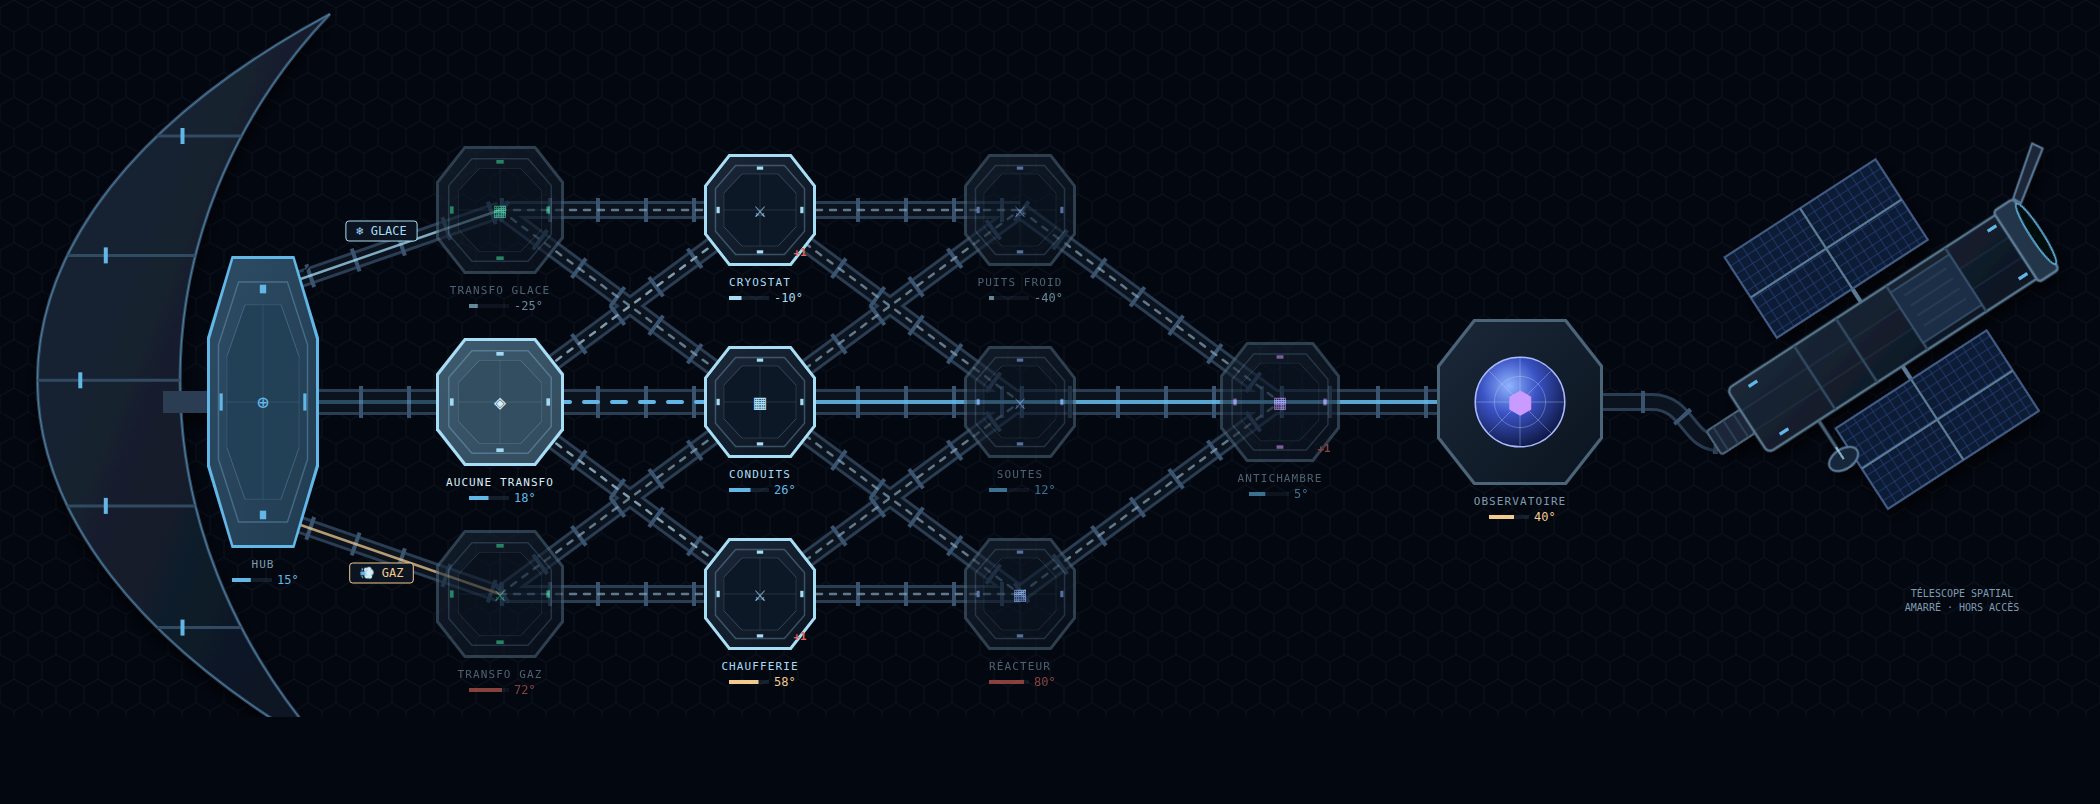
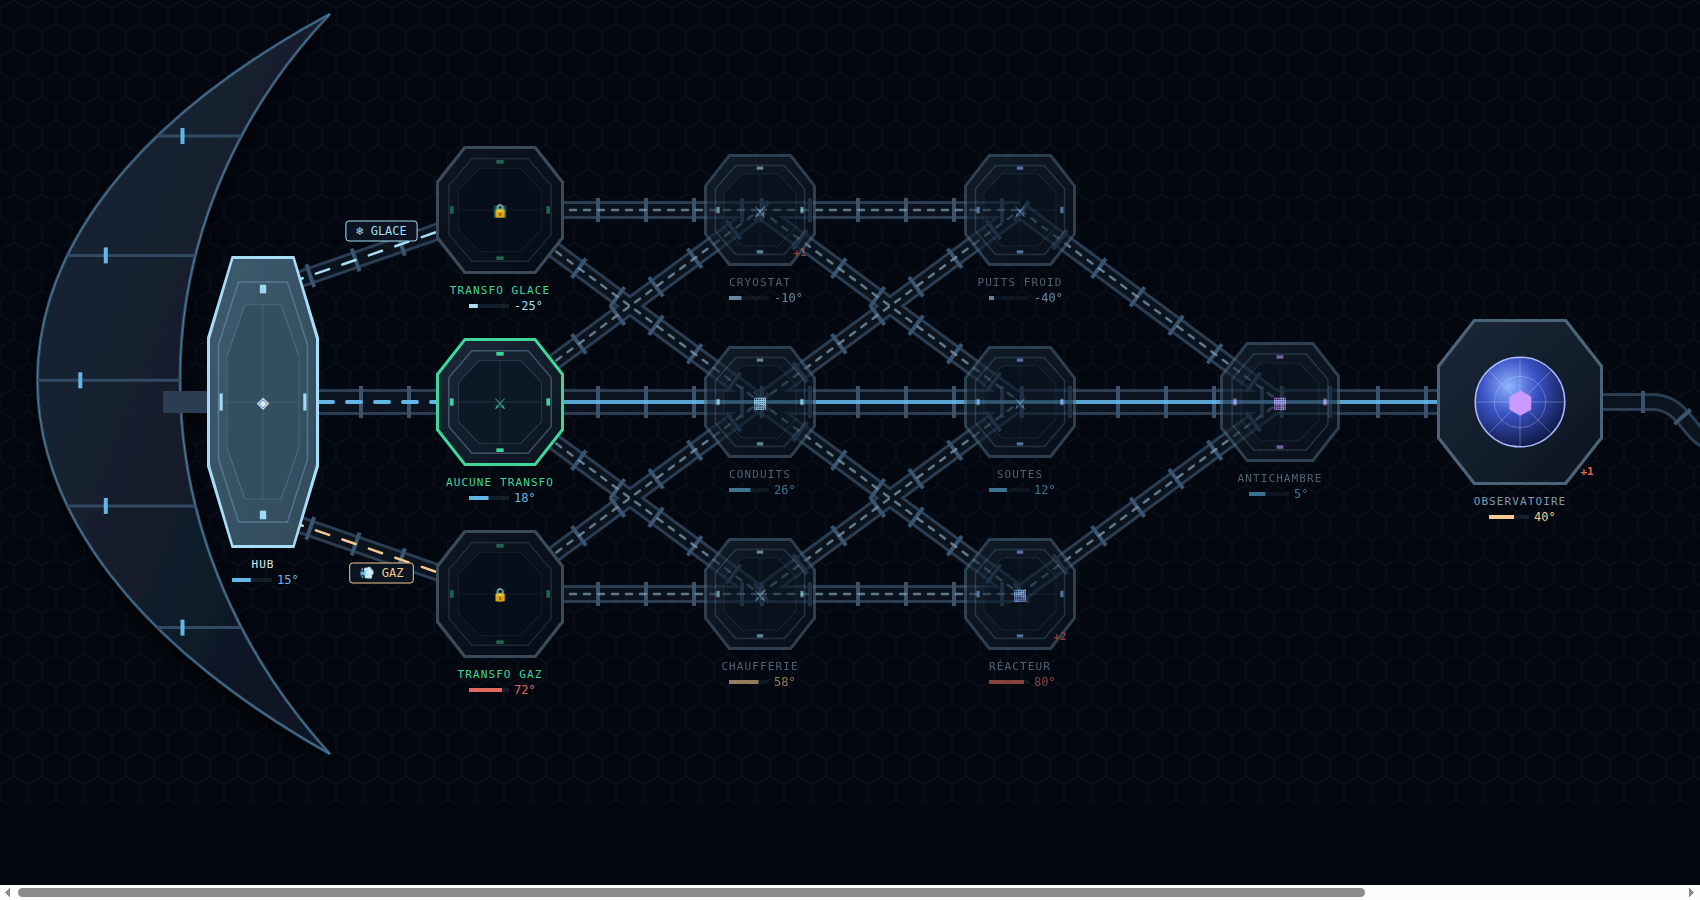
La symétrie de la carte est cassée : trois tempos, une voie courte, le terminal sous confinement
Le concepteur valide le point 2 du programme (16/09). La carte à cinq
biomes posait la même question à chaque acte — le bord sous cran avec sa
cache, ou le milieu sûr — et toutes les routes se rejoignaient sur une
antichambre sous cran : la carte avait la forme d'un choix, pas la
matière.

Chaque voie a désormais son tempo. La voie FROIDE paie tôt : le cryostat
garde cran 1 et sa cache (sublimation), le puits froid est calme. La voie
CHAUDE paie tard et gros : la chaufferie perd son cran et sa cache, le
réacteur prend cran 2 (mémoire triple, 80 °C) et la cache (condensation)
derrière. La voie du MILIEU paie en salles : les soutes passent à trois
salles — les routes qui y passent font 27 au lieu de 30, trois sas de
moins donc moins de récompenses, et une rampe plus raide (la longueur
suit le trajet). L'antichambre respire (aucun cran) et le terminal est
sous confinement pour tout le monde : la fin est un sommet, pas une voie.
Jamais deux crans d'affilée.

La règle de route « distance équivalente » tolère désormais trois salles
d'écart (ECART_ROUTES_MAX) : une voie courte qui se paie ailleurs est un
choix, pas un raccourci — au-delà, la vérification le dit toujours. Les
descriptions des modules disent chacune leur tempo.

Vérification : les tests de la carte et de la descente suivent le nouveau
plan (27 par les soutes, 30 par les bords, les crans C1:1 · P3:2 · OBS:1,
les caches C1 et P3, la tolérance, le sandwich P3 → ANTI → OBS si
[…]

diff --git a/src/game/carteStation.spec.ts b/src/game/carteStation.spec.ts
@@ -13,6 +13,7 @@ import {
   REVELATIONS,
   moduleRevele,
   verifieRoutes,
+  ECART_ROUTES_MAX,
   cloneCarte,
   couleurTemperature,
   orbeRequis,
@@ -233,13 +234,15 @@ describe('biomesDeCarte — la liste que la planche et l’éditeur proposent', 
 })
 
 describe('un module est un biome — niveaux et trajet', () => {
-  it('la carte livrée compte ses niveaux : 30 salles — cinq biomes de six', () => {
-    // HUB(0) T(6) C(6) P(6) ANTI(6) OBS(6) = 30, sur chacune des dix-sept routes
-    expect(longueursTrajet(CARTE_LIVREE)).toEqual({ min: 30, max: 30 })
+  it('la carte livrée compte ses niveaux : 30 salles, 27 par la voie courte', () => {
+    // HUB(0) T(6) C(6) P(6) ANTI(6) OBS(6) = 30 ; les SOUTES (P2) n'ont que
+    // trois salles : les routes qui y passent font 27 — la voie courte se
+    // paie en récompenses et en rampe, pas en salles (le concepteur, 16/09)
+    expect(longueursTrajet(CARTE_LIVREE)).toEqual({ min: 27, max: 30 })
     expect(routesVersObjectif(CARTE_LIVREE)).toHaveLength(17)
     const c = cloneCarte(CARTE_LIVREE)
     c.modules.find((m) => m.id === 'C2')!.niveaux = 7
-    expect(longueursTrajet(c)).toEqual({ min: 30, max: 31 })
+    expect(longueursTrajet(c)).toEqual({ min: 27, max: 31 }) // les routes du bord par les soutes gardent 27
   })
 
   it('un module d’où l’objectif est hors de portée se signale — le joueur reviendra sur ses pas', () => {
@@ -354,15 +357,17 @@ describe('les routes', () => {
     expect(vus.size).toBe(12)
   })
 
-  it('les trois actes sont à distance égale de l’objectif, et chaque module ouvre sur deux ou trois du suivant', () => {
+  it('les trois actes sont à distance équivalente de l’objectif, et chaque module ouvre sur deux ou trois du suivant', () => {
     // le contrat du §9.3 : sortir hors protocole ne raccourcit pas le
-    // parcours, il le déplace — trois voies par acte, même compte de salles
-    // plusCourtVers ne compte pas les salles du module où l'on EST : depuis
-    // un transformateur il reste quatre biomes, depuis une coursive trois
-    expect(plusCourtVers(CARTE_LIVREE, 'HUB', 'OBS')).toBe(30)
-    for (const t of ['T1', 'T2', 'T3']) expect(plusCourtVers(CARTE_LIVREE, t, 'OBS')).toBe(24)
-    for (const s of ['C1', 'C2', 'C3']) expect(plusCourtVers(CARTE_LIVREE, s, 'OBS')).toBe(18)
-    for (const s of ['P1', 'P2', 'P3']) expect(plusCourtVers(CARTE_LIVREE, s, 'OBS')).toBe(12)
+    // parcours, il le déplace — trois voies par acte ; la seule exception
+    // est la VOIE COURTE des soutes (trois salles), qui se paie ailleurs.
+    // plusCourtVers ne compte pas les salles du module où l'on EST, et
+    // passe par les soutes quand il le peut
+    expect(plusCourtVers(CARTE_LIVREE, 'HUB', 'OBS')).toBe(27)
+    for (const t of ['T1', 'T2', 'T3']) expect(plusCourtVers(CARTE_LIVREE, t, 'OBS')).toBe(21)
+    for (const s of ['C1', 'C2', 'C3']) expect(plusCourtVers(CARTE_LIVREE, s, 'OBS')).toBe(15)
+    for (const s of ['P1', 'P3']) expect(plusCourtVers(CARTE_LIVREE, s, 'OBS')).toBe(12)
+    expect(plusCourtVers(CARTE_LIVREE, 'P2', 'OBS')).toBe(12) // ANTI + OBS : la voie courte est derrière soi
     // chaque module d'acte ouvre sur DEUX haltes, et deux voisins n'offrent
     // jamais la même paire : la halte se choisit autant que le secteur
     // dès la première porte, la route diverge : chaque transformateur
@@ -372,10 +377,15 @@ describe('les routes', () => {
     expect(liensDepuis(CARTE_LIVREE, 'T2').map((l) => l.vers)).toEqual(['C1', 'C2', 'C3'])
     expect(liensDepuis(CARTE_LIVREE, 'T3').map((l) => l.vers)).toEqual(['C2', 'C3'])
     expect(liensDepuis(CARTE_LIVREE, 'C2').map((l) => l.vers)).toEqual(['P1', 'P2', 'P3'])
-    // trois modules portent le cran, jamais deux d'affilée ; les caches
-    // sont dans les coursives du bord, en nœud de leur mini-carte
-    expect(CARTE_LIVREE.modules.filter((m) => m.cran > 0).map((m) => m.id)).toEqual(['C1', 'C3', 'ANTI'])
-    expect(CARTE_LIVREE.modules.filter((m) => m.orbe).map((m) => `${m.id}:${m.orbe}`)).toEqual(['C1:sublimation', 'C3:condensation'])
+    // LA SYMÉTRIE EST CASSÉE (le concepteur, 16/09) : la voie froide paie
+    // TÔT (le cryostat, cran 1 et sa cache, puis rien), la voie chaude paie
+    // TARD et GROS (rien à la chaufferie, le réacteur à cran 2 avec sa
+    // cache), la voie du milieu paie en SALLES (les soutes, trois salles) ;
+    // et le terminal est sous confinement pour tout le monde — jamais deux
+    // crans d'affilée, l'antichambre respire
+    expect(CARTE_LIVREE.modules.filter((m) => m.cran > 0).map((m) => `${m.id}:${m.cran}`)).toEqual(['C1:1', 'P3:2', 'OBS:1'])
+    expect(CARTE_LIVREE.modules.filter((m) => m.orbe).map((m) => `${m.id}:${m.orbe}`)).toEqual(['C1:sublimation', 'P3:condensation'])
+    expect(CARTE_LIVREE.modules.find((m) => m.id === 'P2')!.niveaux).toBe(3)
   })
 })
 
@@ -392,21 +402,23 @@ describe('verifieRoutes — les règles de route, à la Slay the Spire', () => {
     expect(v.some((x) => /une seule route/.test(x.message))).toBe(true)
   })
 
-  it('des routes à distance inéquivalente se signalent (§9.3) — à une salle près, non', () => {
+  it('des routes à distance inéquivalente se signalent (§9.3) — jusqu’à trois salles d’écart, non', () => {
     const c = cloneCarte(CARTE_LIVREE)
-    c.modules.find((m) => m.id === 'C2')!.niveaux = 1 // CONDUITS perd cinq salles
-    expect(verifieRoutes(c).some((x) => /distance équivalente.*de 25 à 30/.test(x.message))).toBe(true)
-    // la carte livrée fait 30 partout : rien à dire
+    c.modules.find((m) => m.id === 'C2')!.niveaux = 1 // CONDUITS perd cinq salles : 22 par les soutes
+    expect(verifieRoutes(c).some((x) => /distance équivalente.*de 22 à 30/.test(x.message))).toBe(true)
+    // la carte livrée va de 27 (la voie courte) à 30 : dans la tolérance
     expect(verifieRoutes(CARTE_LIVREE).some((x) => /distance équivalente/.test(x.message))).toBe(false)
+    expect(ECART_ROUTES_MAX).toBe(3)
   })
 
   it('deux confinements supérieurs d’affilée se signalent, la paire nommée', () => {
     const c = cloneCarte(CARTE_LIVREE)
-    c.modules.find((m) => m.id === 'P2')!.cran = 1 // les soutes prennent un cran
+    c.modules.find((m) => m.id === 'ANTI')!.cran = 1 // l'antichambre reprend un cran
     const v = verifieRoutes(c).filter((x) => /d’affilée/.test(x.message))
-    // prises en sandwich : le cryostat et la chaufferie avant, l'antichambre après
-    expect(v.map((x) => x.module).sort()).toEqual(['ANTI', 'P2', 'P2'])
-    expect(v.some((x) => x.message.includes('C1 → P2'))).toBe(true)
+    // prise en sandwich : le réacteur avant, le terminal après
+    expect(v.map((x) => x.module).sort()).toEqual(['ANTI', 'OBS'])
+    expect(v.some((x) => x.message.includes('P3 → ANTI'))).toBe(true)
+    expect(v.some((x) => x.message.includes('ANTI → OBS'))).toBe(true)
   })
 
   it('une halte avec des salles est une erreur de fond', () => {

diff --git a/src/game/descenteCarte.spec.ts b/src/game/descenteCarte.spec.ts
@@ -40,11 +40,12 @@ delete avecInc.modules[avecInc.modules.length - 1].orbe
 avecInc.liens.push({ de: 'T2', vers: 'INC', type: 'alt' }, { de: 'INC', vers: 'C2', type: 'alt' })
 
 describe('plusCourtVers — le plus court chemin en niveaux', () => {
-  it('du HUB à l’observatoire : 30 salles — cinq biomes de six', () => {
-    // HUB(0) T(6) N1(0) halte(0) C(6) halte(0) P(6) halte(0) ANTI(6) OBS(6)
-    expect(plusCourtVers(c, 'HUB', 'OBS')).toBe(30)
-    expect(plusCourtVers(c, 'C2', 'OBS')).toBe(18)
+  it('du HUB à l’observatoire : 27 salles par la voie courte, 30 par les bords', () => {
+    // HUB(0) T(6) C(6) SOUTES(3) ANTI(6) OBS(6) = 27 ; par P1 ou P3, 30
+    expect(plusCourtVers(c, 'HUB', 'OBS')).toBe(27)
+    expect(plusCourtVers(c, 'P1', 'OBS')).toBe(12)
     expect(plusCourtVers(c, 'P2', 'OBS')).toBe(12)
+    expect(plusCourtVers(c, 'C2', 'OBS')).toBe(15) // par la voie courte des soutes
     expect(plusCourtVers(c, 'ANTI', 'OBS')).toBe(6)
     expect(plusCourtVers(c, 'OBS', 'OBS')).toBe(0)
   })
@@ -136,12 +137,14 @@ describe('la descente sur la carte', () => {
   })
 
   it('la longueur de la run découle du trajet et s’affine en route', () => {
+    // du hub, la plus courte passe par les soutes (trois salles) : 27 ;
+    // elle s'allonge à 30 dès qu'on s'engage sur une voie du bord
     let e = departCarte(c)
-    expect(longueurRun(c, e, 0)).toBe(30)
+    expect(longueurRun(c, e, 0)).toBe(27)
     e = entreModule(c, e, 'T2', [])!
-    expect(longueurRun(c, e, 0)).toBe(30)
+    expect(longueurRun(c, e, 0)).toBe(27)
     e = franchitSalle(e)
-    expect(longueurRun(c, e, 1)).toBe(30) // 1 franchie + 5 restantes + 24
+    expect(longueurRun(c, e, 1)).toBe(27) // 1 franchie + 5 restantes + 21
     // un détour par T1 (3) puis S1 (3) puis la cache S1b (1) : la salle de
     // la cache s'ajoute, puis l'observatoire (3) — 10
     const d = { module: 'P1', niveau: 0, visites: ['HUB', 'T1', 'C1'], revelations: {}, tissage: '', trace: [], graineRun: '' }
@@ -213,7 +216,8 @@ describe('la nature du module commande la salle', () => {
     expect(primeMemoire(m('combat', 1))).toBe(2)
     expect(primeMemoire(undefined)).toBe(1)
     // la carte livrée : les secteurs du bord paient double
-    expect(c.modules.filter((x) => primeMemoire(x) === 2).map((x) => x.id)).toEqual(['C1', 'C3', 'ANTI'])
+    expect(c.modules.filter((x) => primeMemoire(x) === 2).map((x) => x.id)).toEqual(['C1', 'OBS'])
+    expect(primeMemoire(c.modules.find((x) => x.id === 'P3'))).toBe(3) // le réacteur, cran 2
     // LA PRIME SE RÈGLE (le plan) : 50 % par cran → ×1,5 au cran 1 ; 0 : le confinement ne paie pas
     expect(primeMemoire(m('combat', 1), 0.5)).toBe(1.5)
     expect(primeMemoire(m('combat', 2), 0.5)).toBe(2)
@@ -264,15 +268,15 @@ describe('projectionDepuis — le survol qui projette', () => {
     const p = projectionDepuis(c, 'C1')!
     expect(p.chemin[0]).toBe('C1')
     expect(p.chemin[p.chemin.length - 1]).toBe('OBS')
-    expect(p.salles).toBe(24) // C1 (6) + P (6) + ANTI (6) + OBS (6)
-    expect(p.crans).toBe(2) // le cryostat, puis l'antichambre — la suite évite les soutes
+    expect(p.salles).toBe(21) // C1 (6) + SOUTES (3, la voie courte) + ANTI (6) + OBS (6)
+    expect(p.crans).toBe(2) // le cryostat, puis le terminal
     expect(p.prochains).toEqual(['PUITS FROID', 'SOUTES'])
     expect(ditProjection(c, p)).toBe(
-      'ouvre ensuite PUITS FROID ou SOUTES · au plus court (allumé) : 24 salles jusqu’à OBSERVATOIRE · 2 confinements sur cette route',
+      'ouvre ensuite PUITS FROID ou SOUTES · au plus court (allumé) : 21 salles jusqu’à OBSERVATOIRE · 2 confinements sur cette route',
     )
-    // depuis la voie libre, la route la moins confinée : l'antichambre seule
+    // depuis la voie libre, la route la moins confinée : le terminal seul
     const n = projectionDepuis(c, 'T2')!
-    expect(n.salles).toBe(30)
+    expect(n.salles).toBe(27)
     expect(n.crans).toBe(1)
     // ce qui distingue deux portes voisines dont les routes se rejoignent :
     // ce qu'elles ouvrent tout de suite après
@@ -306,11 +310,11 @@ describe('le module « ? » — la nature se révèle à l’entrée', () => {
     const halte = reveleInconnu(avecInc, dansINC, 'INC', () => 0) // economat
     expect(moduleCourant(avecInc, halte)?.type).toBe('economat')
     expect(moduleFini(avecInc, halte)).toBe(true)
-    expect(longueurRun(avecInc, halte, 6)).toBe(30) // la salle du « ? » ne compte plus
+    expect(longueurRun(avecInc, halte, 6)).toBe(27) // la salle du « ? » ne compte plus (27 : par les soutes)
     const combat = reveleInconnu(avecInc, dansINC, 'INC', () => 0.99)
     expect(moduleCourant(avecInc, combat)?.cran).toBe(1)
     expect(moduleFini(avecInc, combat)).toBe(false)
-    expect(longueurRun(avecInc, combat, 6)).toBe(31)
+    expect(longueurRun(avecInc, combat, 6)).toBe(28)
   })
 
   it('la révélation traverse la sauvegarde, et se nettoie', () => {

diff --git a/src/game/carteStation.ts b/src/game/carteStation.ts
@@ -786,6 +786,14 @@ export function verifieCarte(c: CarteStation): VerdictCarte[] {
  *    ne s'enchaîne pas ;
  *  Des attentions, pas des erreurs : le concepteur peut vouloir une carte
  *  qui les enfreint — mais il le saura. */
+/** L'ÉCART DE LONGUEUR toléré entre deux routes, en salles. Le §9.3 veut
+ *  que sortir du protocole DÉPLACE le parcours sans le raccourcir — mais
+ *  une VOIE COURTE qui se paie ailleurs (moins de sas, donc moins de
+ *  récompenses, et une rampe plus raide) est un choix, pas un raccourci
+ *  (le concepteur, 16/09 : casser la symétrie de la carte). Au-delà de
+ *  trois salles, c'est un raccourci. */
+export const ECART_ROUTES_MAX = 3
+
 export function verifieRoutes(c: CarteStation): VerdictCarte[] {
   const v: VerdictCarte[] = []
   const routes = routesVersObjectif(c)
@@ -795,8 +803,8 @@ export function verifieRoutes(c: CarteStation): VerdictCarte[] {
   const longueurs = routes.map((r) => longueurRoute(c, r))
   const min = Math.min(...longueurs)
   const max = Math.max(...longueurs)
-  if (max - min > 1)
-    v.push({ niveau: 'attention', message: `les routes ne sont pas à distance équivalente : de ${min} à ${max} salles — sortir du protocole doit déplacer le parcours, pas le raccourcir (§9.3)` })
+  if (max - min > ECART_ROUTES_MAX)
+    v.push({ niveau: 'attention', message: `les routes ne sont pas à distance équivalente : de ${min} à ${max} salles — sortir du protocole doit déplacer le parcours, pas le raccourcir (§9.3) ; une voie courte se tolère jusqu’à ${ECART_ROUTES_MAX} salles d’écart` })
   const enchaines = new Set<string>()
   for (const r of routes)
     for (let i = 1; i < r.length; i++) {

diff --git a/docs/routes.md b/docs/routes.md
@@ -59,7 +59,7 @@ Les deux s'emboîtent : la carte décide du **biome** (la température, le
 cran, la nature dominante, la cache), la mini-carte décide du **rythme**
 (salle, rencontre, halte) et ferme les voies qu'on n'a pas prises. La
 longueur d'une run n'est pas un réglage : elle découle du trajet — trente
-salles sur la carte livrée, cinq biomes de six.
+salles sur la carte livrée, vingt-sept par la voie courte des soutes.
 
 ---
 
@@ -75,8 +75,10 @@ Une coursive peut exiger un **orbe d'essence de conscience** (glace :
 solidification, vapeur : vaporisation). Un cadenas lit un ACQUIS durable,
 pas l'état du corps à l'instant : la carte se lit comme une progression.
 Le contrat du §9.3 du document fonctionnel tient : un déblocage ouvre un
-chemin **latéral**, jamais un raccourci — toutes les routes de la carte
-livrée font trente salles, à une près.
+chemin **latéral**, jamais un raccourci — les routes de la carte livrée
+font trente salles, sauf celles qui passent par les soutes (vingt-sept),
+et cette voie courte n'est pas un raccourci : elle se paie en récompenses
+et en rampe (§2.7). La vérification tolère trois salles d'écart, pas plus.
 
 *Ce que le joueur lit* : le cadenas sur le plan, l'orbe qui manque dans la
 fiche, la secousse quand il insiste.
@@ -155,6 +157,29 @@ s'évitent en changeant de voie — et c'est ce qui en fait un choix : viser
 l'alcôve, c'est renoncer à la salle d'à côté.
 
 ---
+
+### 2.7 Les trois tempos — la symétrie cassée
+
+La première carte à cinq biomes posait la même question à chaque acte :
+le bord, sous cran et avec sa cache, ou le milieu, sûr. Et toutes les
+routes se rejoignaient sur une antichambre sous cran. Depuis le 16/09,
+chaque voie a **son tempo** :
+
+| Voie | Acte 2 | Acte 3 | Ce qu'elle promet |
+| --- | --- | --- | --- |
+| **Froide** (cryo) | CRYOSTAT, cran 1, cache (sublimation) | PUITS FROID, calme | **payer tôt** : la mémoire double et l'orbe dès le milieu, puis on souffle |
+| **Tempérée** | CONDUITS, énigme, rien | SOUTES, **trois salles** | **payer en salles** : vingt-sept au lieu de trente — trois sas de moins, donc moins de mémoire et de condensat, et une rampe plus raide |
+| **Chaude** | CHAUFFERIE, rien | RÉACTEUR, **cran 2**, cache (condensation) | **payer tard, et gros** : la mémoire triple sur six salles à 80 °C, l'orbe derrière |
+
+L'antichambre respire (aucun cran), et **le terminal est sous
+confinement pour tout le monde** : la fin est un sommet, pas une voie.
+Jamais deux crans d'affilée. Les coursives permettent de changer de voie à
+chaque acte, donc de composer : froid tôt puis soutes, tempéré puis
+réacteur.
+
+*Ce que le joueur lit* : le « +1 » et le « +2 » au coin des fûts, les
+« 3 salles » des soutes dans la fiche, la longueur qui passe de 27 à 30
+quand il quitte la voie courte.
 
 ## 3. Les natures de salle
 

diff --git a/docs/carte-station.md b/docs/carte-station.md
@@ -156,21 +156,27 @@ La grande carte ne montre **que des biomes** — décision du concepteur du
 16/09 : les haltes (économat, alcôve, bonbonne, cache) et le « ? » vivent
 dans la mini-carte de chaque module (`voiesModule.ts`), jamais sur la
 station. Le plan tient en **trois actes de six salles, une approche et un
-terminal** — cinq biomes, trente salles sur chacune des dix-sept routes :
+terminal** — cinq biomes, dix-sept routes de trente salles, vingt-sept
+par la voie courte des soutes :
 
 ```
-HUB ─glace─ T1 TRANSFO GLACE ─┐ ┌ C1 CRYOSTAT (+1, cache) ┐ ┌ P1 PUITS FROID ┐
-HUB ─main── T2 AUCUNE TRANSFO ─┼─┼ C2 CONDUITS              ┼─┼ P2 SOUTES      ┼─ ANTICHAMBRE (+1) ─ OBSERVATOIRE
-HUB ─vapeur T3 TRANSFO GAZ ───┘ └ C3 CHAUFFERIE (+1, cache)┘ └ P3 RÉACTEUR    ┘
+HUB ─glace─ T1 TRANSFO GLACE ─┐ ┌ C1 CRYOSTAT (+1, cache) ┐ ┌ P1 PUITS FROID          ┐
+HUB ─main── T2 AUCUNE TRANSFO ─┼─┼ C2 CONDUITS              ┼─┼ P2 SOUTES (3 salles)    ┼─ ANTICHAMBRE ─ OBSERVATOIRE (+1)
+HUB ─vapeur T3 TRANSFO GAZ ───┘ └ C3 CHAUFFERIE            ┘ └ P3 RÉACTEUR (+2, cache) ┘
 ```
 
 - **Chaque module ouvre sur deux ou trois du suivant**, jamais la même
   paire que son voisin : la route diverge dès la première porte. Le
   survol d'un module éteint ce qu'il ferme, et dit ce qu'on y trouvera.
-- **Trois modules sous confinement supérieur** (cryostat, chaufferie,
-  antichambre), jamais deux d'affilée : la vérification y veille.
+- **La symétrie est cassée** (le concepteur, 16/09) : la voie froide paie
+  tôt (le cryostat, cran 1 et sa cache), la voie chaude paie tard et gros
+  (le réacteur, cran 2 et sa cache), la voie du milieu paie en salles (les
+  soutes, trois au lieu de six). L'antichambre respire, le terminal est
+  sous confinement pour tout le monde. Jamais deux crans d'affilée : la
+  vérification y veille, et tolère trois salles d'écart entre les routes
+  (`ECART_ROUTES_MAX`).
 - **Les caches** viennent de l'orbe du module (`orbe`) : la mini-carte du
-  cryostat et de la chaufferie pose un nœud cache, une fois par poste.
+  cryostat et du réacteur pose un nœud cache, une fois par poste.
 - **La scène fait 2100 × 804** ; l'arc de coque ne bouge pas (le HUB reste
   à x = 263), l'observatoire et le télescope glissent à droite.
 

diff --git a/README.md b/README.md
@@ -43,7 +43,9 @@ Des rails à champ qui convoient la vapeur et l'ionisent en plasma.
 de la station à routes ramifiées (un module est un biome de SIX salles ;
 au bout d'elles la carte s'ouvre et la coursive suivante se choisit, sous
 cadenas tant que l'orbe manque ; la longueur d'une run découle du trajet —
-trente salles, en cinq biomes : trois actes, l'approche et le terminal ;
+trente salles, vingt-sept par la voie courte, en cinq biomes : trois
+actes, l'approche et le terminal ; la voie froide paie tôt, la chaude
+tard, celle du milieu en salles ;
 la grande carte ne montre que des biomes, le confinement supérieur qui
 paie double, la nature et la température du module qui font la salle, le
 survol qui dit ce qu'on trouvera dans un module et ce que sa porte ferme ;
